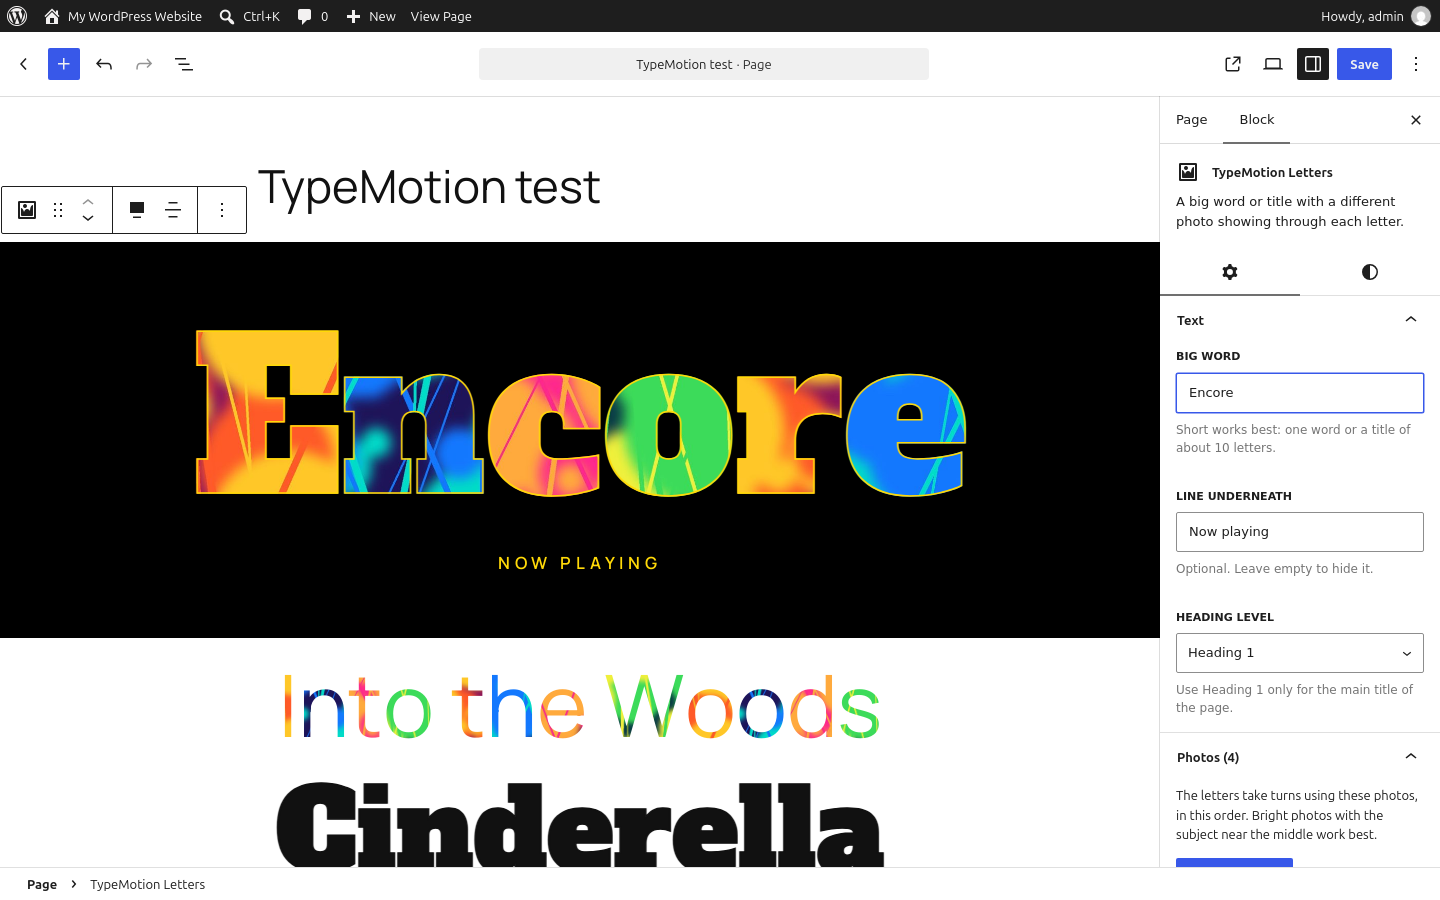
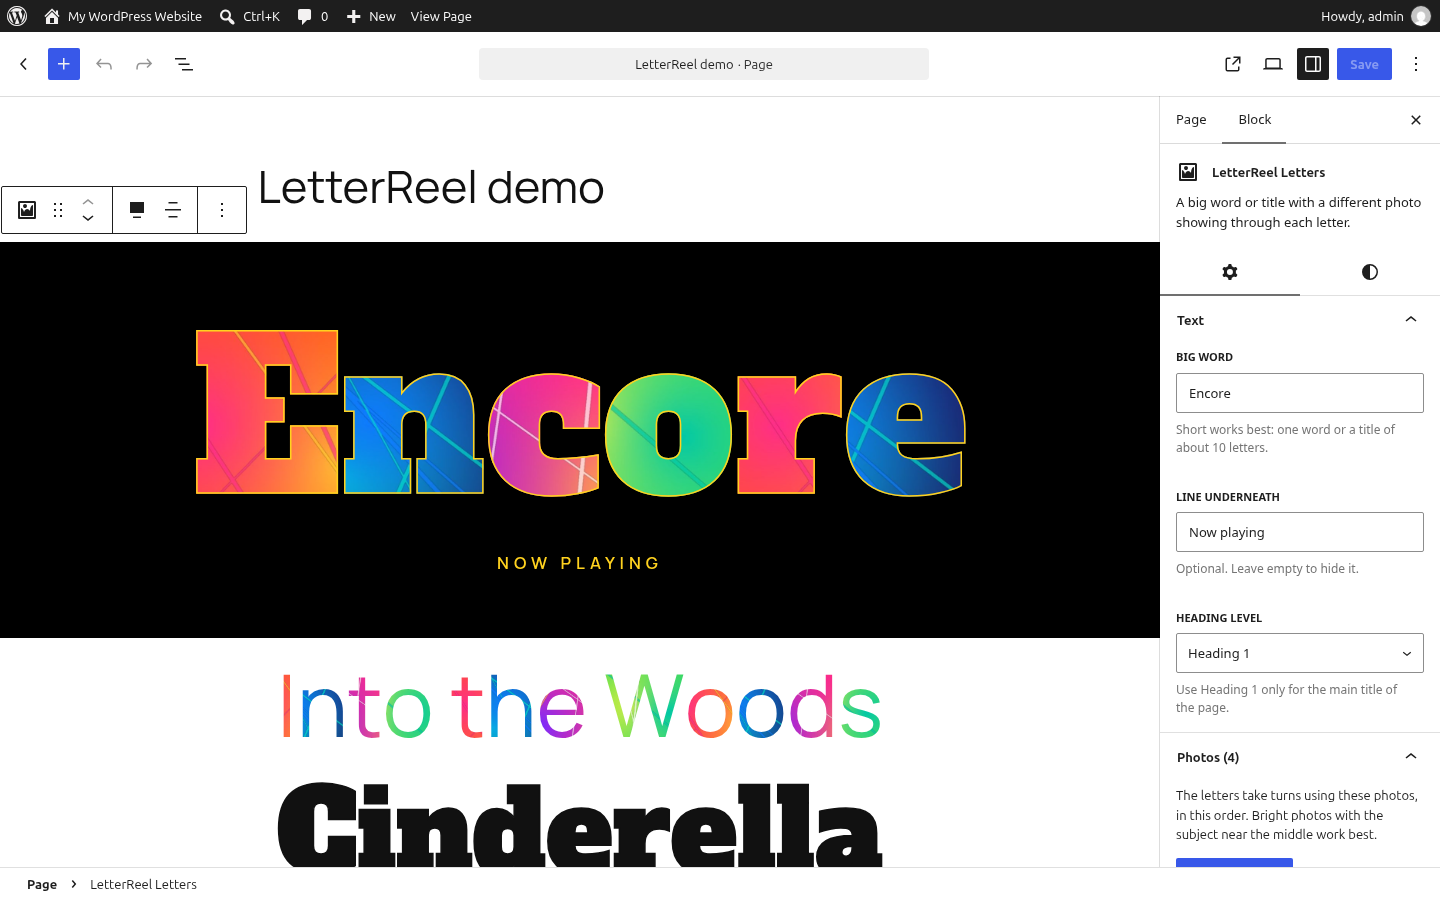
Retake screenshots with the LetterReel name, add animated hero GIF
Screenshot 1 is now an animated GIF of the letters rising in. Screenshots 2
and 3 are retaken so the editor and phone views no longer show TypeMotion.
The GIF is also shown in README.md.

diff --git a/README.md b/README.md
@@ -4,6 +4,8 @@ A WordPress block that shows a different photo through each letter of a big word
 
 ![LetterReel banner](.wordpress-org/banner-1544x500.png)
 
+![The letters rising in, each filled with a different photo](.wordpress-org/screenshot-1.gif)
+
 - **Block:** `letterreel/letters` ("LetterReel Letters", Design category)
 - **Requires:** WordPress 6.5+, PHP 7.4+
 - **Licence:** GPL-2.0-or-later. The bundled Alfa Slab One font is SIL OFL 1.1 (`fonts/OFL.txt`).
